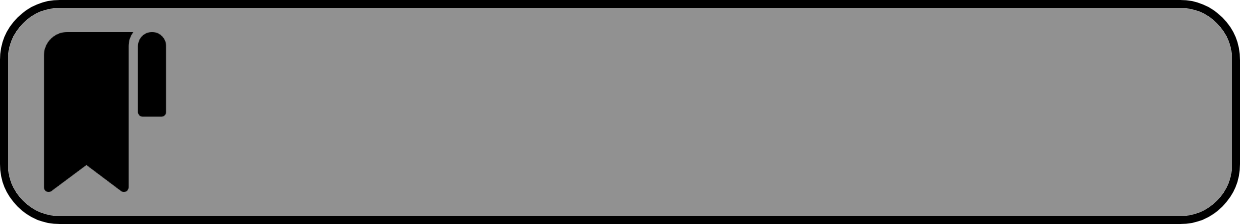
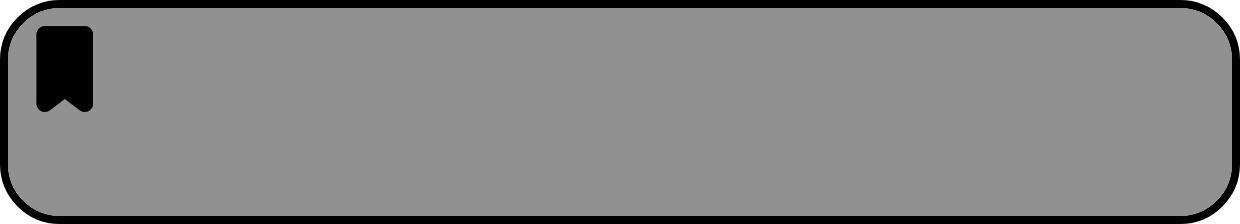
finally (I think)

Changed region(s): [[0.0306, 0.0938, 0.1532, 0.8438]]

diff --git a/main.py b/main.py
@@ -919,12 +919,20 @@ class BookmarkedItems(Screen):
                                 border=(0, 0, 0, 0))
                 button.bind(on_press=lambda x,
                             id=i[0], type=categ: self.popup(type, id))
+                button.bind(on_release=lambda x, button=button: self.change_color(button))
                 if categ == "GRAMMAR":
                     self.ids.grammar_tab.add_widget(button)
                 if categ == "VOCAB":
                     self.ids.vocab_tab.add_widget(button)
                 if categ == "KANJI":
                     self.ids.kanji_tab.add_widget(button)
+    
+    def change_color(self, current_button):
+        current_button.background_normal = 'resources/Buttons/bm_picked.png'
+        for button in self.buttons:
+            if button.text != current_button.text:
+                button.background_normal = 'resources/Buttons/bm_1_up.png'
+
 
     def on_leave(self, *args):
         self.ids.grammar_tab.clear_widgets()
@@ -932,6 +940,7 @@ class BookmarkedItems(Screen):
         self.ids.kanji_tab.clear_widgets()
 
     def popup(self, type, ID):
+        dh.pop_source = "bookmarks"
         dh.current_id = ID
         if type == "GRAMMAR":
             pop = GrammarPop()
@@ -1079,7 +1088,7 @@ class Contents(Screen):
     
     def change_color(self, current_button):
         if current_button.bookmarked:
-            current_button.background_normal = 'resources/Buttons/rec_3_up.png'
+            current_button.background_normal = 'resources/Buttons/bm_picked.png'
         else:
             current_button.background_normal = 'resources/Buttons/rec_3_up.png'
         for button in self.buttons:
@@ -1095,6 +1104,7 @@ class Contents(Screen):
         self.ids.kanji_tab.clear_widgets()
 
     def popup(self, type, ID):
+        dh.pop_source = "contents"
         dh.current_id = ID
         if type == "GRAMMAR":
             pop = GrammarPop()
